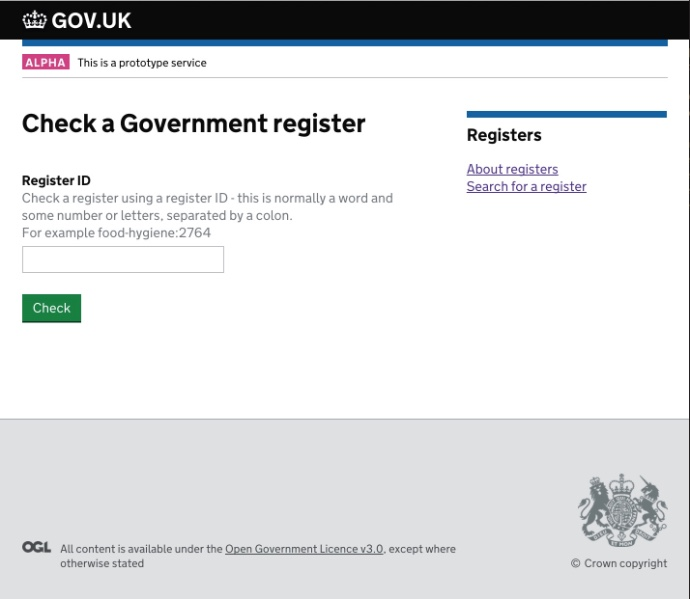
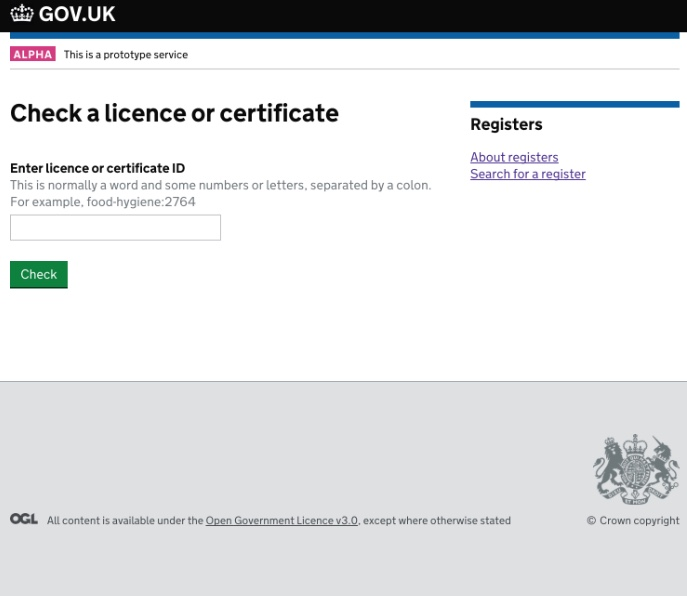
update check link to have correct screenshot

diff --git a/templates/index.html b/templates/index.html
@@ -129,7 +129,7 @@
       </div>
       <div class="large-4 columns">
         <a href="http://openregister-check-demo.herokuapp.com/"><img src="/static/images/demo/check.jpg"></a>
-        <h3 class="heading-medium"><a href="http://openregister-check-demo.herokuapp.com/">Check a government register</a></h3>
+        <h3 class="heading-medium"><a href="http://openregister-check-demo.herokuapp.com/">Check a licence or certificate</a></h3>
         <p>A prototype application demonstrating digital proofs.
         A small <a href="https://github.com/openregister/check-demo">python/flask application</a>.</p>
       </div>
